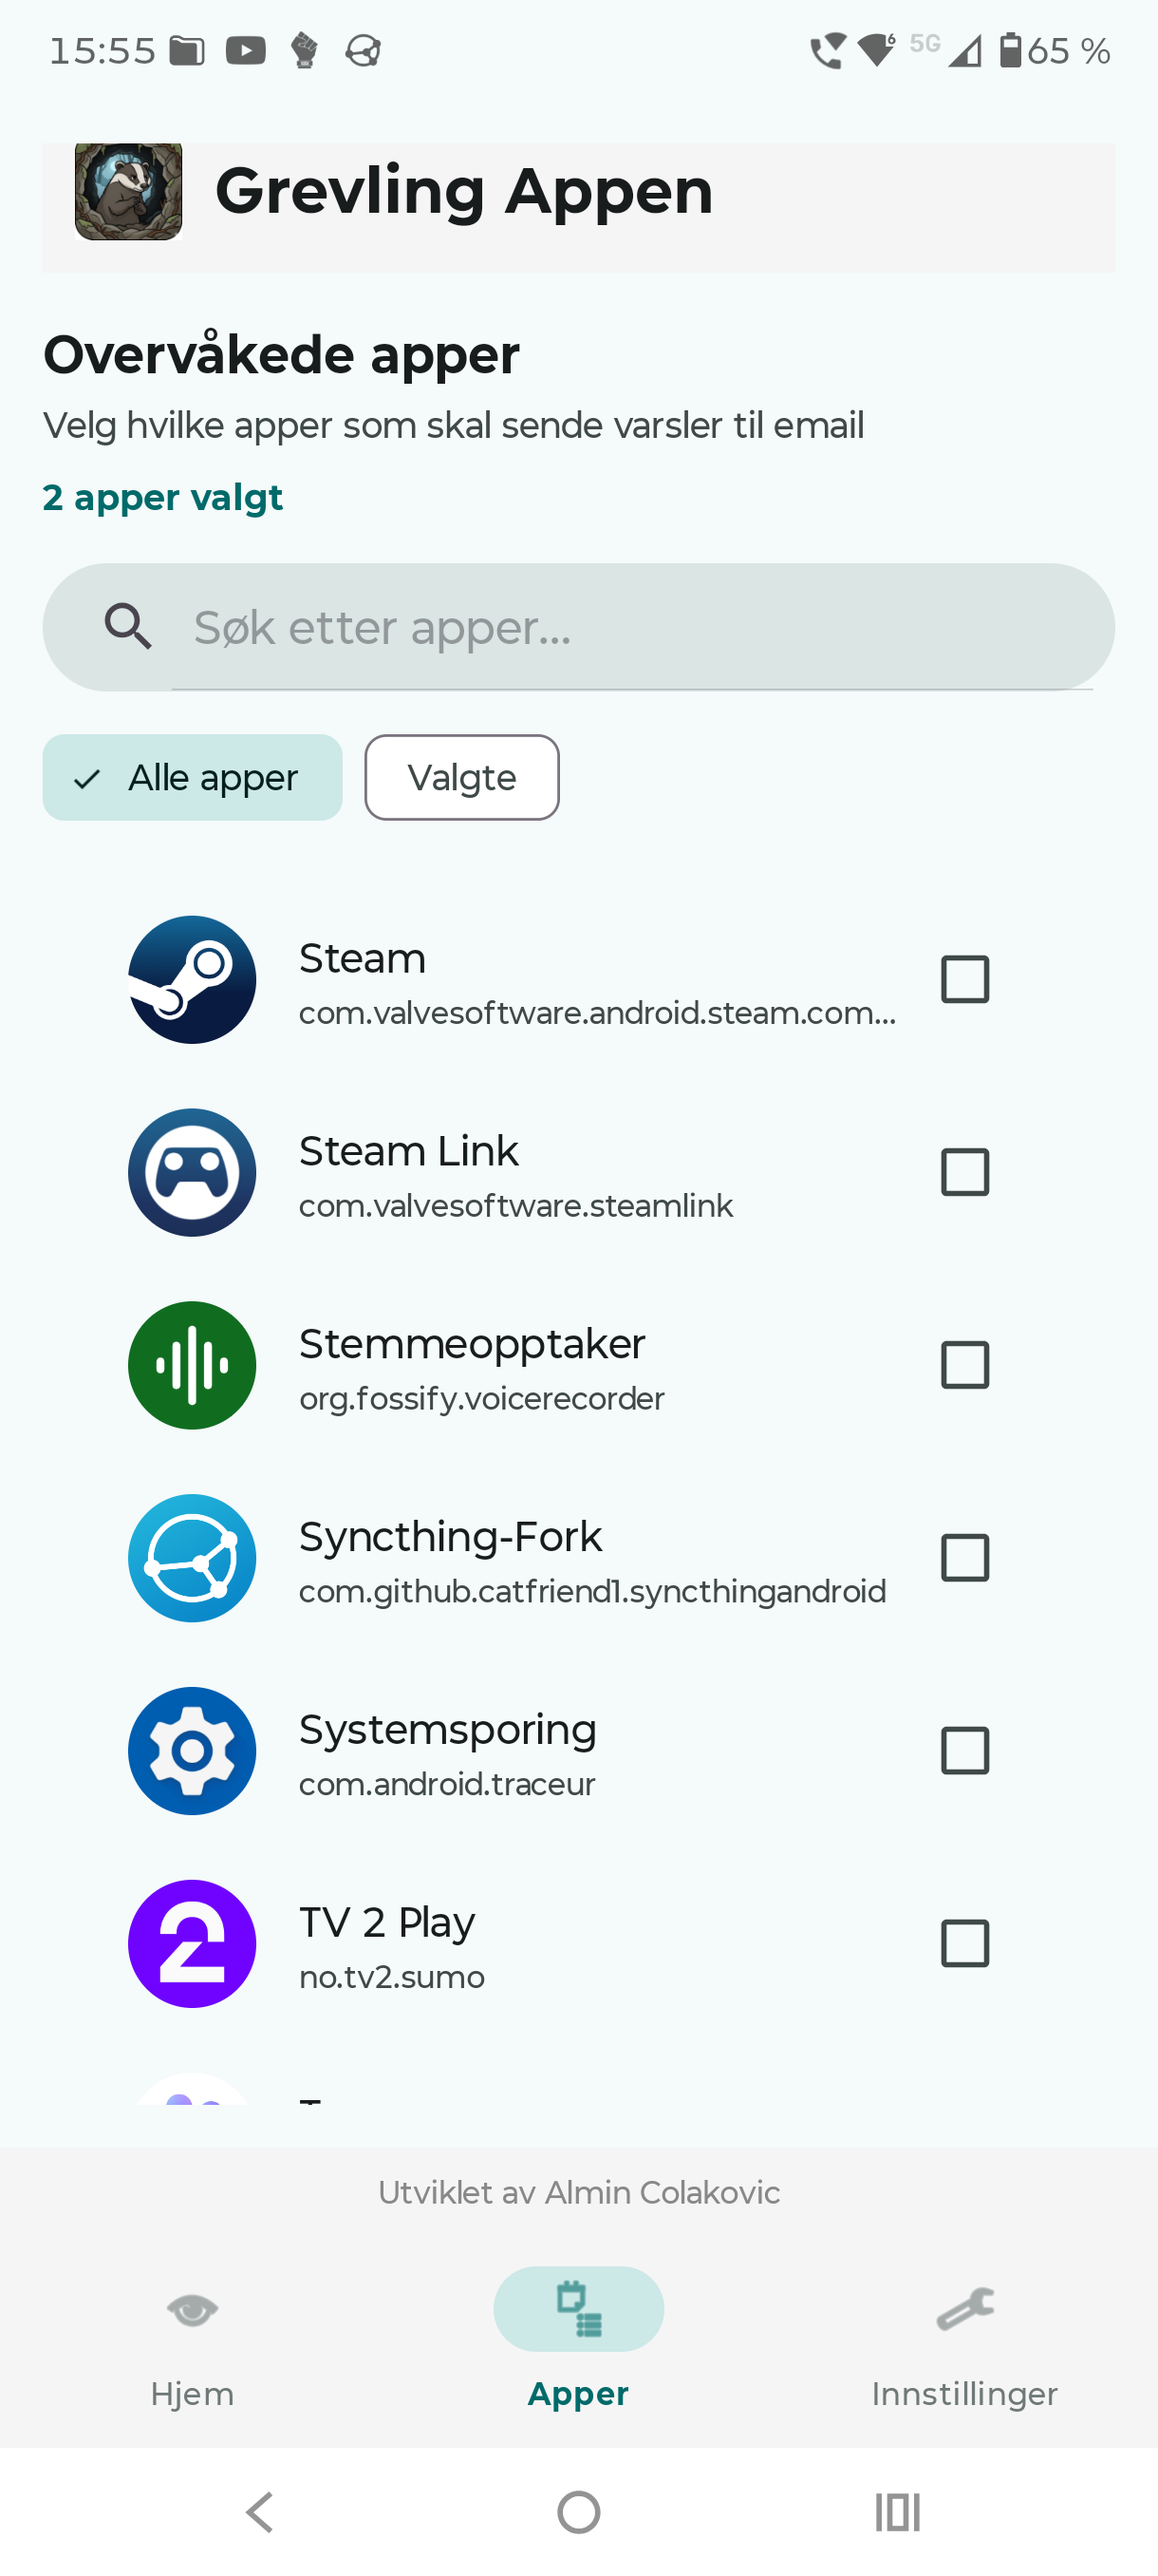
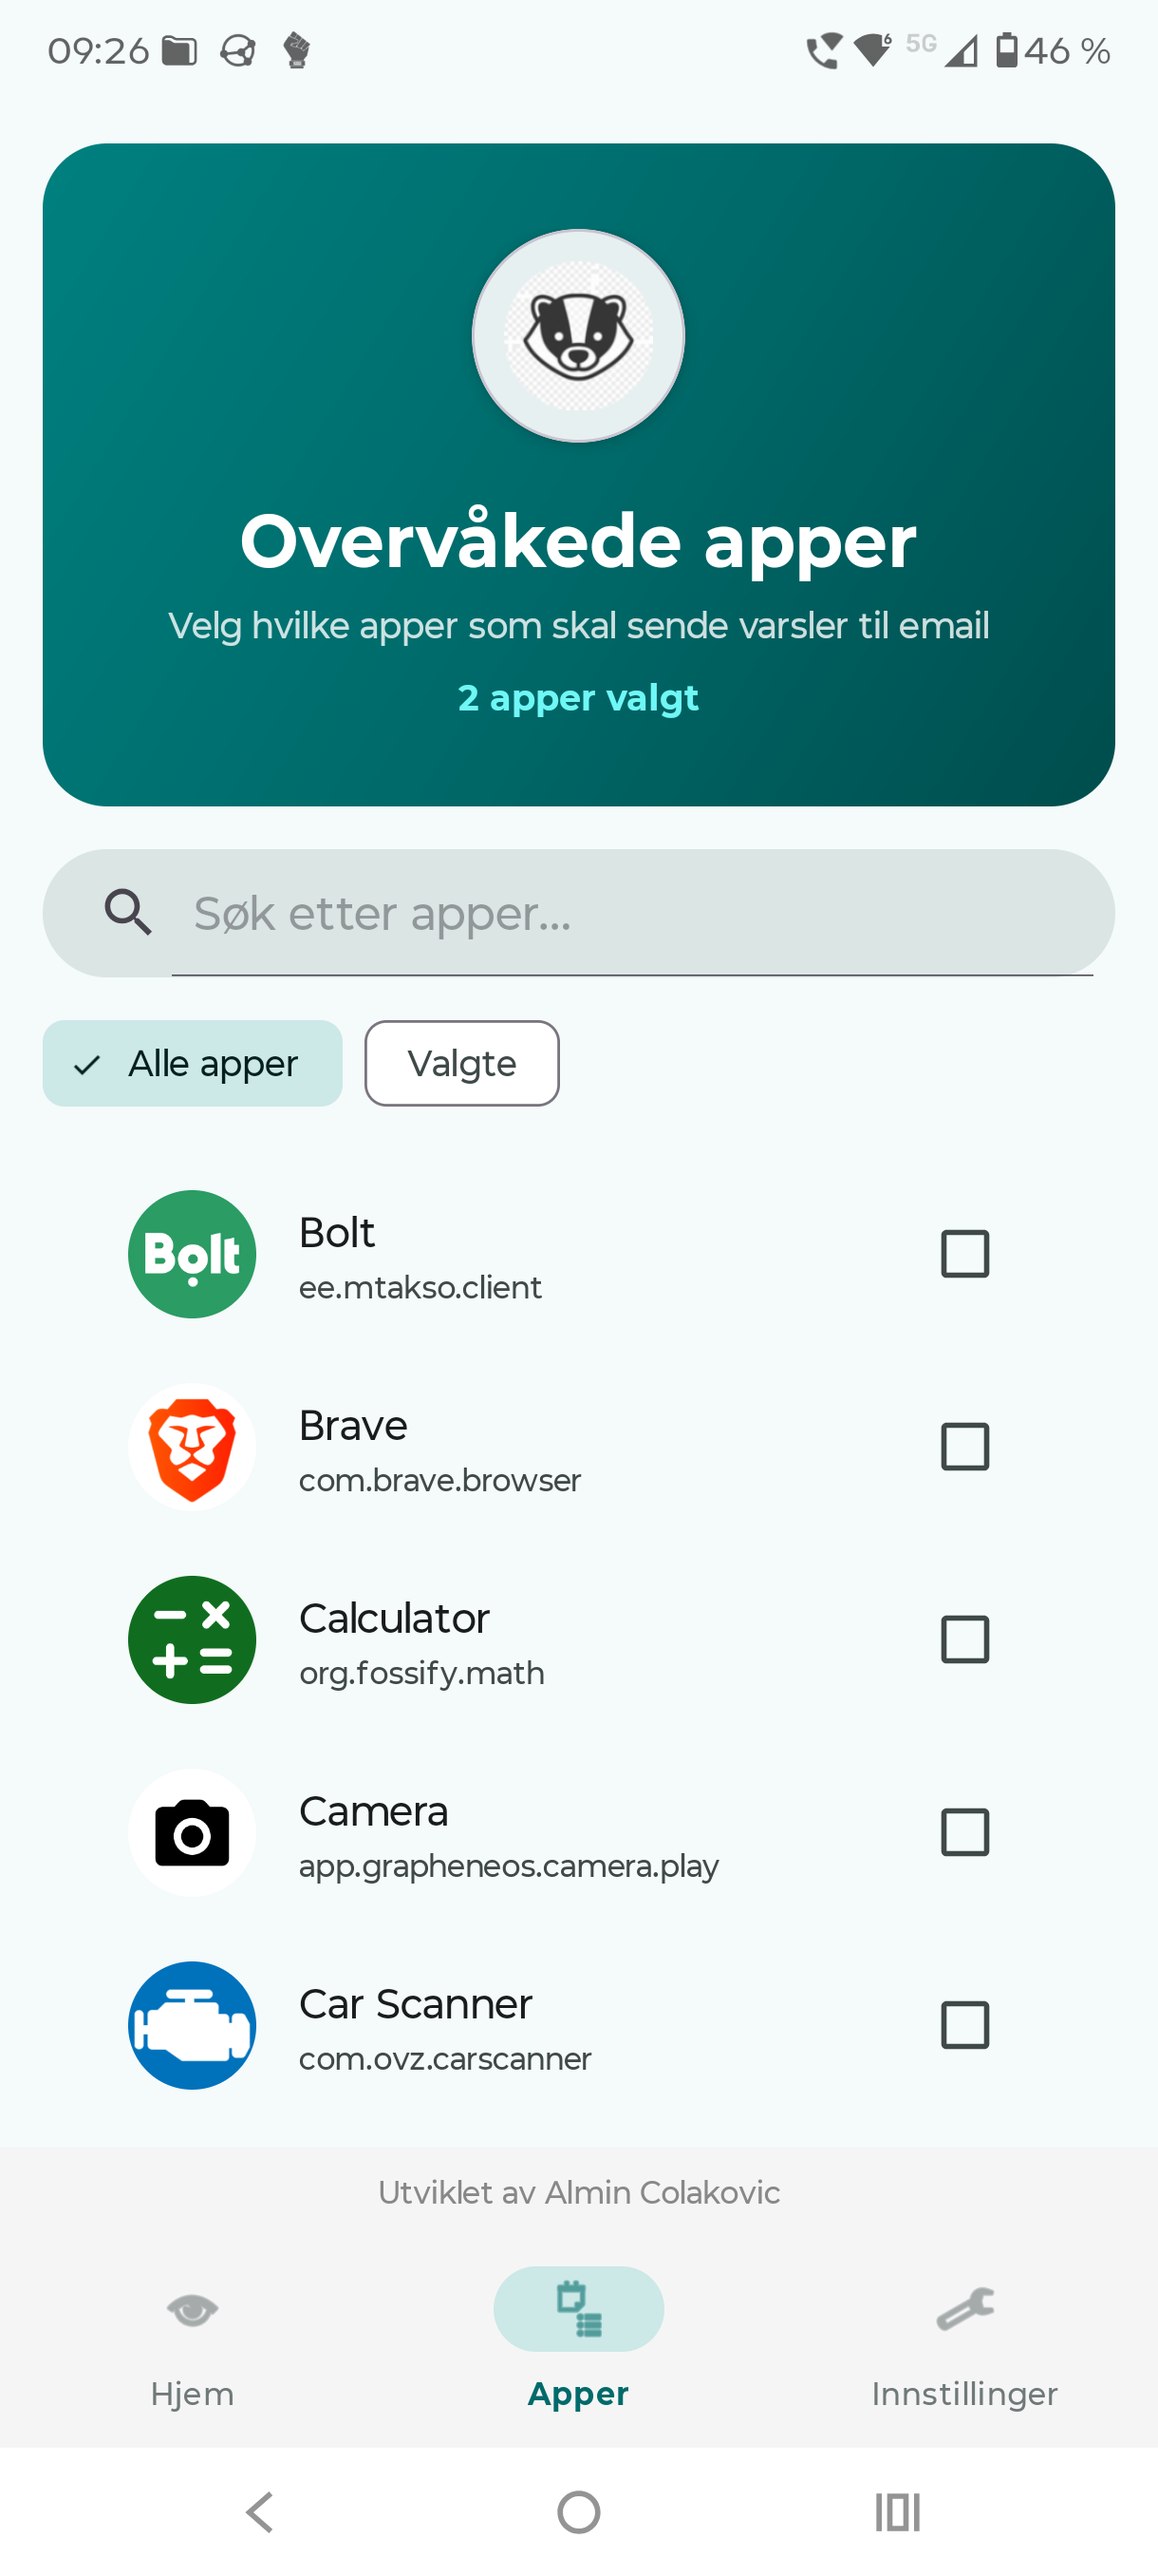
Update UI elements and layout configurations; add corner radius to header background and remove negative margins from fragments

diff --git a/app/src/main/java/com/smsforwarder/SettingsFragment.kt b/app/src/main/java/com/smsforwarder/SettingsFragment.kt
@@ -261,10 +261,8 @@ class SettingsFragment : BaseFragment() {
 
             2⃣ Opprett App Password
                • Gå til myaccount.google.com/apppasswords
-               • Velg "Mail" som app
-               • Velg "Other" som enhet
-               • Skriv "SMS Forwarder"
-               • Klikk "Generate"
+               • Skriv inn Appnavn (f.eks. "Grevling Appen")
+               • Klikk "Opprett"
 
             3⃣ Kopier passordet
                • Google viser et 16-tegn passord
